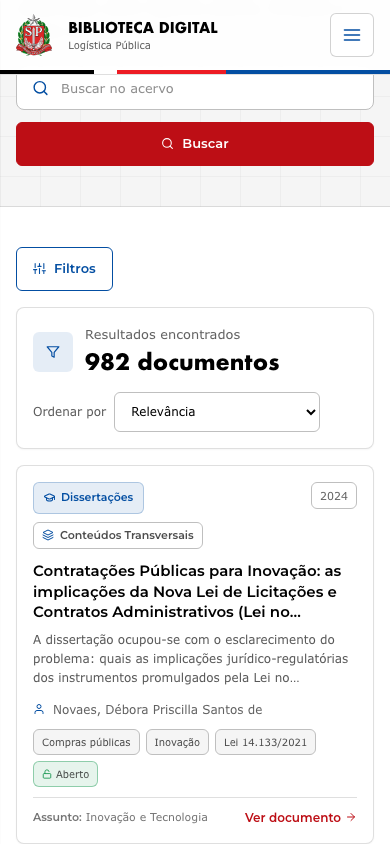
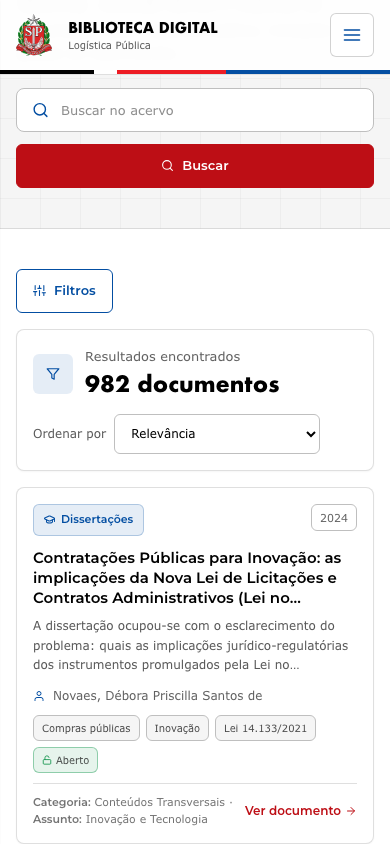
fix(cartao): categoria volta para o rodapé, junto do Assunto, sem badge no topo
Bernardo (15/09/2026): o badge de categoria ao lado do badge de coleção nos
resultados do Acervo ficou confuso. Fica descartado: o topo do cartão segue
o protótipo (tipo + ano) e os dois eixos voltam à linha de baixo, agora
rotulados "Categoria: <categoria › subcategoria> · Assunto: <assunto>" —
sem a palavra "Etapa" no cartão. Cada eixo trunca por si e o segundo desce
de linha quando não cabem juntos (CSS .doc-card__eixos/.doc-card__eixo
restaurado; .doc-card__badges/.doc-card__cat removidos). A página do
material mantém o badge sem prefixo, do commit anterior.

Verificado: 139 testes; queries /busca/ 17, home 36; cenas Playwright do
cartão (desktop/mobile) e do documento sem falha; pa11y sem erros em
/busca/ e /; capturas regeneradas.

Changed region(s): [[0.0308, 0.3081, 0.9231, 0.9858], [0.0308, 0.0924, 0.9846, 0.2464], [0.6154, 0.955, 0.9231, 0.9858]]

diff --git a/portal/templates/_partials/_doc_card.html b/portal/templates/_partials/_doc_card.html
@@ -1,22 +1,20 @@
 {% comment %}
 DocCard — card de documento fiel ao protótipo do Eduardo (Next.js).
 Requer `doc` no contexto. Cor/ícone do badge derivam da Coleção v6 (Tipo de Informação).
-Os dois eixos da classificação (set/2026), resolvidos por classificacao_card (mapas
-cacheados, zero query por cartão): a categoria processual (› subcategoria) é um badge
-no topo, ao lado do tipo — sem o prefixo Etapa (15/09/2026) —, e o rodapé traz
-"Assunto: <assunto>". Sem categoria não há badge; sem Assunto cai no nome da coleção.
+Rodapé (set/2026): os dois eixos da classificação — "Categoria: <categoria › subcategoria>"
+e "Assunto: <assunto>" — resolvidos por classificacao_card (mapas cacheados, zero
+query por cartão). O topo segue o protótipo (tipo + ano; sem badge de categoria —
+decisão de 15/09/2026; o rótulo é "Categoria", não o nome da fase). Sem categoria mostra só o Assunto;
+sem Assunto cai no nome da coleção.
 {% endcomment %}
 {% load catalog_tags %}
 {% colecao_visual doc as cv %}
 {% classificacao_card doc as cl %}
 <a class="sp-card doc-card" href="{% url 'catalog:document_detail' doc.code %}{% if doc_ctx %}?ctx={{ doc_ctx|urlencode }}{% endif %}">
   <div class="doc-card__top">
-    <span class="doc-card__badges">
-      <span class="doc-card__type {{ cv.color }}">
-        <svg class="fi" aria-hidden="true"><use href="#{{ cv.icon }}"/></svg>
-        {% if cv.tipo_nome %}{{ cv.tipo_nome }}{% else %}{{ cv.nome }}{% endif %}
-      </span>
-      {% if cl.etapa %}<span class="doc-card__cat"><svg class="fi" aria-hidden="true"><use href="#fi-layers"/></svg><span class="doc-card__cat-txt">{{ cl.etapa }}</span></span>{% endif %}
+    <span class="doc-card__type {{ cv.color }}">
+      <svg class="fi" aria-hidden="true"><use href="#{{ cv.icon }}"/></svg>
+      {% if cv.tipo_nome %}{{ cv.tipo_nome }}{% else %}{{ cv.nome }}{% endif %}
     </span>
     {% if doc.ano %}<span class="doc-card__year">{{ doc.ano }}</span>{% endif %}
   </div>
@@ -44,7 +42,7 @@ no topo, ao lado do tipo — sem o prefixo Etapa (15/09/2026) —, e o rodapé t
     {% endif %}
 
     <div class="doc-card__bottom">
-      <span class="doc-card__assunto"><span class="doc-card__eixo-rotulo">Assunto:</span> {% if cl.assunto %}{{ cl.assunto }}{% else %}{{ cv.nome }}{% endif %}</span>
+      <span class="doc-card__assunto doc-card__eixos">{% if cl.etapa %}<span class="doc-card__eixo"><span class="doc-card__eixo-rotulo">Categoria:</span> {{ cl.etapa }} <span class="doc-card__eixo-sep" aria-hidden="true">·</span></span> {% endif %}<span class="doc-card__eixo"><span class="doc-card__eixo-rotulo">Assunto:</span> {% if cl.assunto %}{{ cl.assunto }}{% else %}{{ cv.nome }}{% endif %}</span></span>
       <span class="doc-card__ver">Ver documento <svg class="fi" aria-hidden="true"><use href="#fi-arrow-right"/></svg></span>
     </div>
   </div>

diff --git a/portal/static/css/portal.css b/portal/static/css/portal.css
@@ -551,17 +551,14 @@ main { flex: 1 0 auto; }
 .doc-card__aberto .fi { color: var(--sp-green); }
 .doc-card__bottom { margin-top: auto; display: flex; align-items: center; justify-content: space-between; gap: 12px; border-top: var(--border); padding-top: 10px; }
 .doc-card__assunto { min-width: 0; white-space: nowrap; overflow: hidden; text-overflow: ellipsis; font-size: 11px; color: rgb(var(--rgb-black) / 0.55); }
-/* Rodapé (set/2026): "Assunto: …" na tipografia do .doc-card__assunto (11px, cor 0.55);
-   só o rótulo ganha peso — nada transmitido só por cor. */
+/* Rodapé com os dois eixos (set/2026): "Categoria: … · Assunto: …" na MESMA
+   tipografia do .doc-card__assunto (11px, cor 0.55). Cada eixo trunca por si
+   (elipse) e o segundo desce de linha quando os dois não cabem juntos — o Assunto
+   nunca some atrás da elipse da Categoria (cards estreitos no mobile). Só o rótulo
+   ganha peso — nada transmitido só por cor. */
+.doc-card__eixos { white-space: normal; line-height: 1.5; }
+.doc-card__eixo { display: inline-block; max-width: 100%; white-space: nowrap; overflow: hidden; text-overflow: ellipsis; vertical-align: bottom; }
 .doc-card__eixo-rotulo { font-family: var(--font-subtitle); font-weight: 600; }
-/* Badge de categoria processual (› subcategoria) no topo do cartão, ao lado do tipo
-   (15/09/2026): neutro (borda cinza, fundo branco — a família do .doc-card__year),
-   sem prefixo "Etapa:", com elipse quando o nome é longo. Os badges embrulham
-   juntos; o ano segue à direita (margin-left: auto). Grade e altura do card intactas. */
-.doc-card__badges { display: flex; flex-wrap: wrap; align-items: flex-start; gap: 8px; min-width: 0; flex: 1 1 auto; }
-.doc-card__cat { display: inline-flex; align-items: center; gap: 6px; max-width: 100%; min-width: 0; border: 1px solid var(--sp-gray-medium); border-radius: 6px; background: var(--sp-white); padding: 4px 8px; font-size: 11px; font-family: var(--font-subtitle); font-weight: 600; color: rgb(var(--rgb-black) / 0.7); }
-.doc-card__cat .fi { flex-shrink: 0; width: 12px; height: 12px; color: var(--sp-blue); }
-.doc-card__cat-txt { min-width: 0; white-space: nowrap; overflow: hidden; text-overflow: ellipsis; }
 .doc-card__ver { flex-shrink: 0; white-space: nowrap; display: inline-flex; align-items: center; gap: 4px; font-size: 12px; color: var(--sp-red-dark); font-family: var(--font-subtitle); font-weight: 600; }
 
 /* ============================================================

diff --git a/portal/catalog/tests/test_dois_eixos.py b/portal/catalog/tests/test_dois_eixos.py
@@ -63,18 +63,20 @@ def test_classificacao_card_e_pura_nao_toca_propriedades_do_documento():
         assert exigido in nomes, exigido
 
 
-def test_cartao_mostra_categoria_como_badge_e_assunto_no_rodape():
-    # 15/09/2026 (Bernardo): a categoria vira um badge no topo do cartão, ao lado
-    # do tipo — sem o prefixo "Etapa:" — e o rodapé fica só com o Assunto.
+def test_cartao_mostra_categoria_e_assunto_no_rodape_sem_badge():
+    # 15/09/2026 (Bernardo): sem badge de categoria junto do tipo; os dois eixos
+    # ficam na linha de baixo, "Categoria: … · Assunto: …", sem a palavra "Etapa".
     t = _template("_partials/_doc_card.html")
     assert "classificacao_card doc as" in t
-    assert 'class="doc-card__cat"' in t and "fi-layers" in t
-    assert "{{ cl.etapa }}" in t
-    assert "Etapa:" not in t
+    assert "doc-card__cat" not in t and "doc-card__badges" not in t
     topo = t[t.index('class="doc-card__top"'): t.index('class="doc-card__year"')]
-    assert "doc-card__type" in topo and "doc-card__cat" in topo   # badge de categoria junto do tipo
-    assert "Assunto:" in t and "doc-card__assunto" in t
-    assert "cl.assunto" in t and "{{ cv.nome }}" in t              # fallback: nome da coleção
+    assert "doc-card__type" in topo and "fi-layers" not in topo    # topo = tipo + ano, como no protótipo
+    rodape = t[t.index('class="doc-card__bottom"'):]
+    assert "Categoria:" in rodape and "Assunto:" in rodape
+    assert "Etapa" not in t
+    assert "doc-card__eixos" in rodape and "doc-card__assunto" in rodape   # mesma tipografia do rodapé
+    assert "cl.etapa" in rodape and "cl.assunto" in rodape
+    assert "{{ cv.nome }}" in rodape                                # fallback: nome da coleção
 
 
 def test_documento_tem_badge_de_categoria_sem_prefixo_e_formula():
@@ -86,10 +88,10 @@ def test_documento_tem_badge_de_categoria_sem_prefixo_e_formula():
     assert "classificacao-formula" in t
 
 
-def test_css_do_badge_de_categoria_no_cartao():
+def test_css_do_rodape_com_dois_eixos():
     css = (TEMPLATES.parent / "static" / "css" / "portal.css").read_text(encoding="utf-8")
-    assert ".doc-card__cat {" in css
-    assert ".doc-card__badges {" in css
+    assert ".doc-card__cat" not in css and ".doc-card__badges" not in css     # badge saiu (15/09)
+    assert ".doc-card__eixos {" in css and ".doc-card__eixo {" in css          # cada eixo trunca por si
     assert ".doc-card__top { display: flex; align-items: flex-start; gap: 12px; }" in css   # regra original intacta
 
 

diff --git a/tools/evidencias_playwright.py b/tools/evidencias_playwright.py
@@ -198,10 +198,11 @@ def cena_cartao(page: Page, base: str, out: Path, suffix: str, cena: Cena, viewp
     page.wait_for_timeout(200)
     rodape = page.locator(".doc-card .doc-card__bottom").first.inner_text()
     cena.check("rodape_do_cartao", bool(rodape.strip()), rodape.replace("\n", " "))
-    # 15/09/2026: a categoria é um badge no topo do cartão (ao lado do tipo), sem "Etapa:".
-    badges = page.locator(".doc-card").first.locator(".doc-card__cat").all_inner_texts()
-    cena.check("badge_categoria_no_cartao", bool(badges) and not badges[0].startswith("Etapa"),
-               " | ".join(b.replace("\n", " ") for b in badges))
+    # 15/09/2026: os dois eixos na linha de baixo ("Categoria: … · Assunto: …"), sem
+    # badge de categoria junto do tipo e sem a palavra "Etapa".
+    plano = rodape.replace("\n", " ")
+    cena.check("rodape_com_categoria_e_assunto", "Categoria:" in plano and "Assunto:" in plano and "Etapa" not in plano, plano)
+    cena.check("sem_badge_de_categoria_no_topo", page.locator(".doc-card .doc-card__cat").count() == 0)
     page.screenshot(path=str(out / f"cartao-dois-eixos-{rotulo}-{suffix}.png"))
 
 

diff --git a/docs/specs/2026-09-14-validacao-subsecretario-plataforma.md b/docs/specs/2026-09-14-validacao-subsecretario-plataforma.md
@@ -56,7 +56,7 @@
 
 **Fora.** Microcategoria no cartão; mudança de cor/tamanho do rodapé.
 
-**Ajuste de 15/09/2026 (Bernardo).** Na página do material, o badge da categoria perde o prefixo "Etapa:" (confundia); no cartão de resultado do Acervo, a categoria (› subcategoria) passa a ser um **badge** no topo, ao lado do badge de tipo (`.doc-card__cat`, neutro, com o ícone `fi-layers`), e o rodapé fica só com "Assunto: …" — a categoria não se repete no cartão. O rótulo "Etapa (categoria processual)" do bloco Classificação BDLP e os hints das facetas ficam como estavam. Mesma tag `classificacao_card` (zero query).
+**Ajuste de 15/09/2026 (Bernardo).** Na página do material, o badge da categoria perde o prefixo "Etapa:" (confundia). No cartão de resultado do Acervo, um badge de categoria ao lado do badge de tipo foi experimentado e **descartado** (ficava confuso junto do badge de coleção): o topo segue o protótipo (tipo + ano) e os dois eixos ficam na linha de baixo, agora rotulados **"Categoria: … · Assunto: …"** — sem a palavra "Etapa" no cartão. O rótulo "Etapa (categoria processual)" do bloco Classificação BDLP e os hints das facetas ficam como estavam. Mesma tag `classificacao_card` (zero query).
 
 ## T6 — Definições dos Assuntos e Coleções na interface
 
